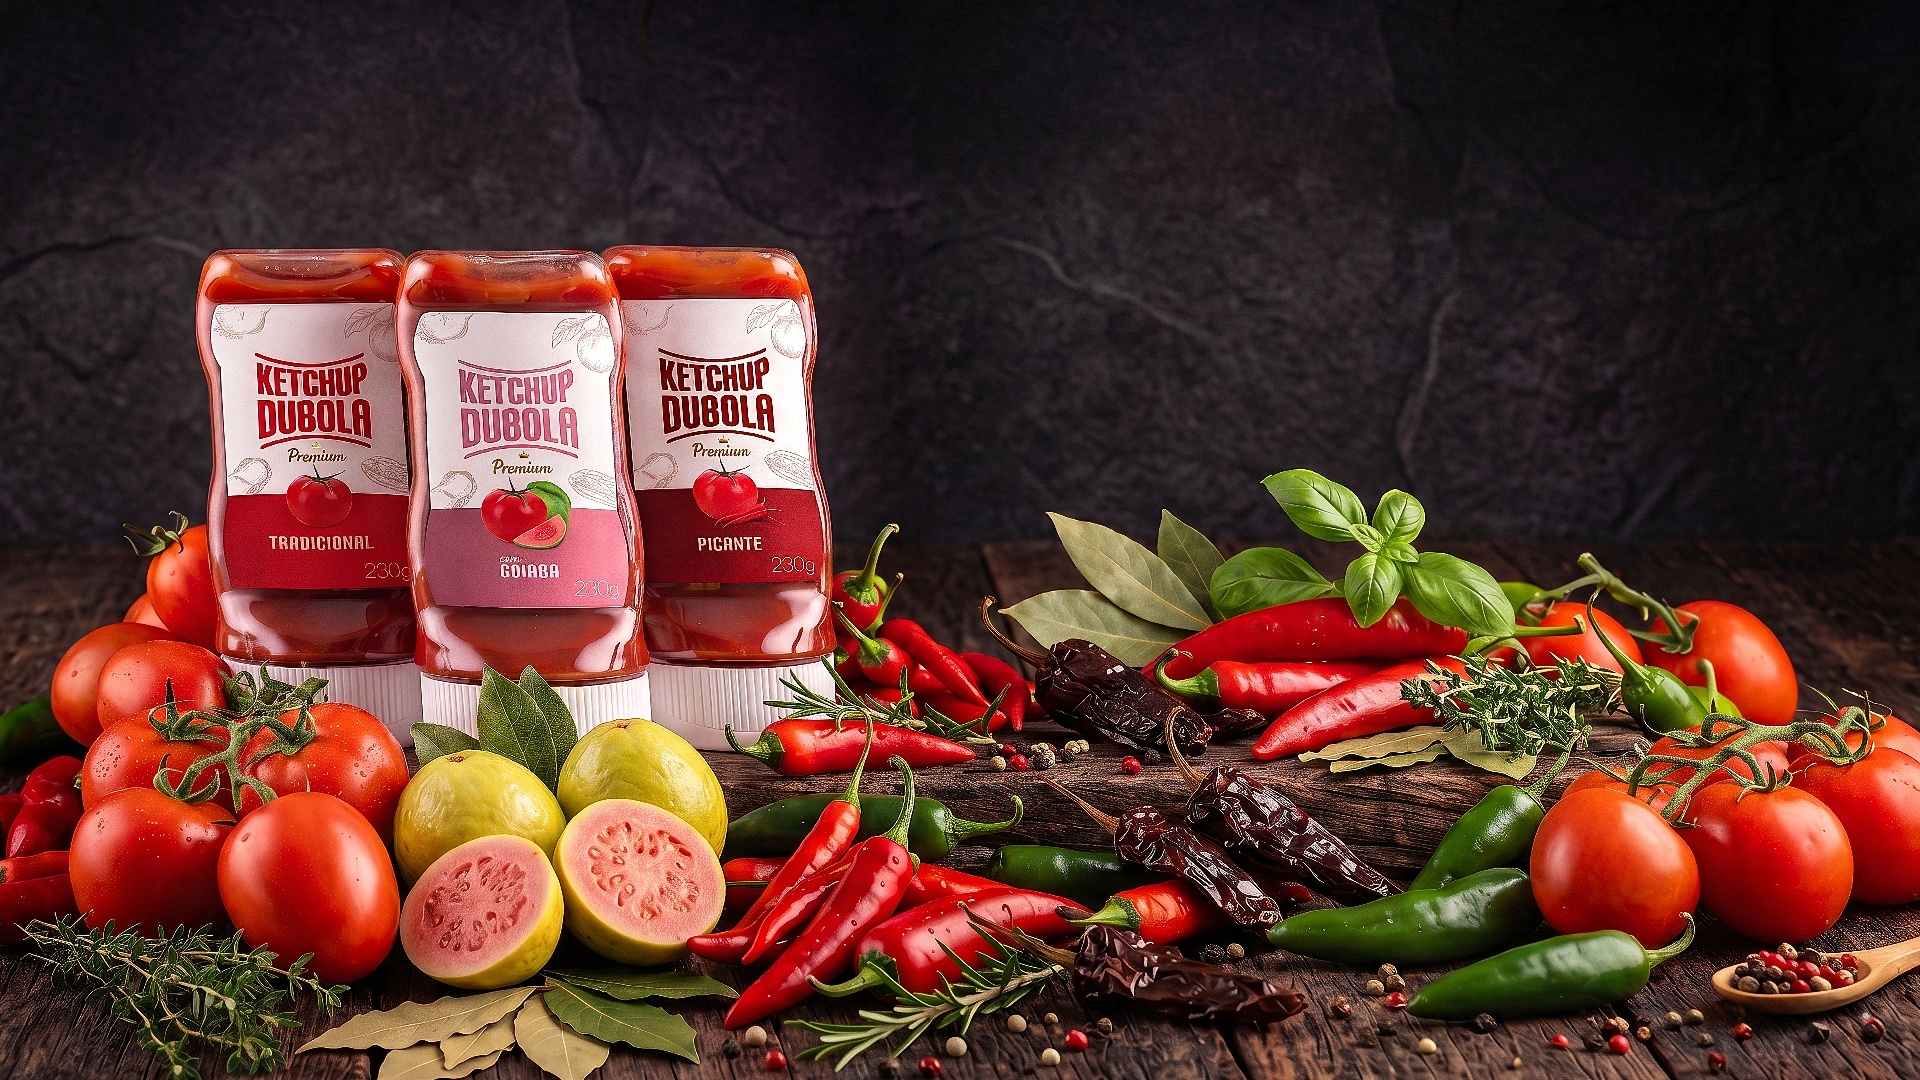
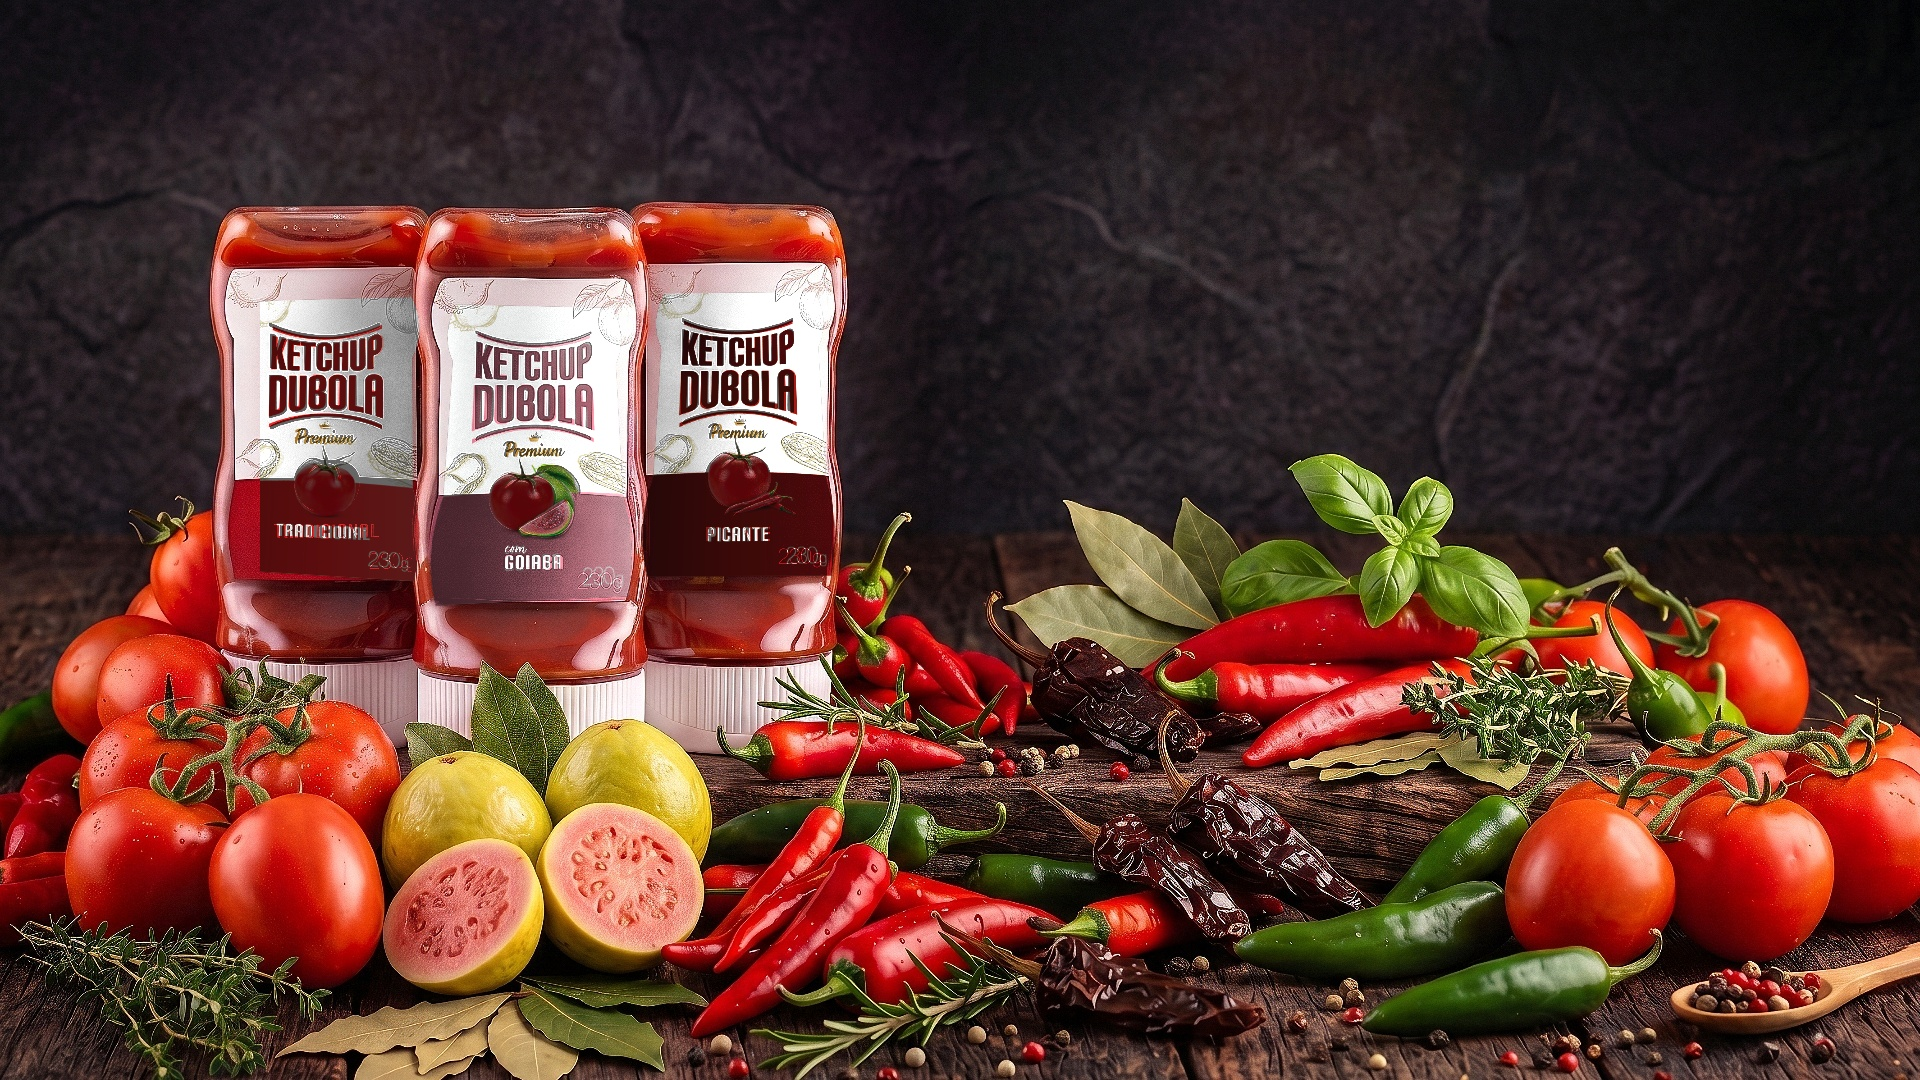
chore: apply high-res labels with 3D metallic highlights onto backdrop bottles

diff --git a/src/views/DubolaKetchupsView.jsx b/src/views/DubolaKetchupsView.jsx
@@ -266,25 +266,91 @@ export default function DubolaKetchupsView() {
     return () => video.removeEventListener('loadedmetadata', init);
   }, []);
 
-  /* GSAP – Manifesto tickers */
+  /* GSAP – Manifesto scroll animations */
   useEffect(() => {
     const ctx = gsap.context(() => {
-      gsap.fromTo('.ketchup-ticker-l', { xPercent: 5 }, { xPercent: -40, scrollTrigger: { trigger: manifestoRef.current, start: 'top bottom', end: 'bottom top', scrub: 1.2 } });
-      gsap.fromTo('.ketchup-ticker-r', { xPercent: -40 }, { xPercent: 5, scrollTrigger: { trigger: manifestoRef.current, start: 'top bottom', end: 'bottom top', scrub: 1.2 } });
-      gsap.fromTo('.float-slow', { y: 50 }, { y: -160, rotate: 40, scrollTrigger: { trigger: manifestoRef.current, start: 'top bottom', end: 'bottom top', scrub: 1.8 } });
-      gsap.fromTo('.float-fast', { y: 80 }, { y: -260, rotate: -80, scrollTrigger: { trigger: manifestoRef.current, start: 'top bottom', end: 'bottom top', scrub: 0.9 } });
+      // Header fade-in
+      gsap.fromTo('.manifesto-header', 
+        { y: 30, opacity: 0 },
+        { 
+          y: 0, 
+          opacity: 1, 
+          duration: 0.8,
+          scrollTrigger: {
+            trigger: manifestoRef.current,
+            start: 'top 80%',
+            toggleActions: 'play none none reverse'
+          }
+        }
+      );
+
+      // Cursive text fade and slight rotation
+      gsap.fromTo('.manifesto-cursive',
+        { scale: 0.8, rotate: -15, opacity: 0 },
+        {
+          scale: 1,
+          rotate: -3,
+          opacity: 1,
+          duration: 1,
+          delay: 0.3,
+          ease: 'back.out(1.7)',
+          scrollTrigger: {
+            trigger: manifestoRef.current,
+            start: 'top 80%',
+            toggleActions: 'play none none reverse'
+          }
+        }
+      );
+
+      // Header right side text fade-in
+      gsap.fromTo('.manifesto-header-right',
+        { x: 30, opacity: 0 },
+        {
+          x: 0,
+          opacity: 1,
+          duration: 0.8,
+          delay: 0.2,
+          scrollTrigger: {
+            trigger: manifestoRef.current,
+            start: 'top 80%',
+            toggleActions: 'play none none reverse'
+          }
+        }
+      );
+
+      // Manifesto paragraphs staggered fade-in
+      gsap.fromTo('.manifesto-p',
+        { y: 30, opacity: 0 },
+        {
+          y: 0,
+          opacity: 1,
+          stagger: 0.2,
+          duration: 0.8,
+          scrollTrigger: {
+            trigger: manifestoRef.current,
+            start: 'top 65%',
+            toggleActions: 'play none none reverse'
+          }
+        }
+      );
+
+      // Mobile bottles fade-in
+      gsap.fromTo('.manifesto-bottles',
+        { scale: 0.95, opacity: 0 },
+        {
+          scale: 1,
+          opacity: 1,
+          duration: 1,
+          scrollTrigger: {
+            trigger: manifestoRef.current,
+            start: 'top 65%',
+            toggleActions: 'play none none reverse'
+          }
+        }
+      );
     });
     return () => ctx.revert();
   }, []);
-
-  /* Mouse parallax on manifesto */
-  const handleMouseMove = (e) => {
-    if (!floatRef.current) return;
-    const rect = floatRef.current.getBoundingClientRect();
-    const x = ((e.clientX - rect.left) / rect.width - 0.5) * 50;
-    const y = ((e.clientY - rect.top) / rect.height - 0.5) * 50;
-    gsap.to('.mouse-px', { x, y, stagger: 0.04, ease: 'power2.out', duration: 0.8 });
-  };
 
   const handleSubmit = (e) => { e.preventDefault(); setFormSubmitted(true); };
 
@@ -367,76 +433,91 @@ export default function DubolaKetchupsView() {
       <section
         id="manifesto"
         ref={manifestoRef}
-        onMouseMove={handleMouseMove}
-        className="relative py-36 bg-zinc-950/70 overflow-hidden border-t border-white/[0.02] z-10"
+        className="relative w-full overflow-hidden bg-[#62070e] py-20 lg:py-32 px-6 flex items-center z-10 border-t border-white/[0.02]"
       >
-        {/* Parallax tickers */}
-        <div className="absolute top-8 left-0 w-full overflow-hidden opacity-[0.025] select-none pointer-events-none space-y-3">
-          <div className="ketchup-ticker-l font-display font-black text-[10vw] tracking-tighter uppercase whitespace-nowrap text-white">
-            TOMATE PELATI • 100% NATURAL • ZERO CORANTES • ARTESANAL DE AUTOR •
-          </div>
-          <div className="ketchup-ticker-r font-display font-black text-[10vw] tracking-tighter uppercase whitespace-nowrap text-white">
-            GOIABA VERMELHA • HABANERO FRESCO • CLEAN LABEL • TEXTURA ENCORPADA •
-          </div>
+        {/* Background image for desktop (lg) */}
+        <div className="absolute inset-0 hidden lg:block">
+          <img 
+            src="/ketchup/trio-ketchups-sem-acucar-splash.png" 
+            alt="" 
+            className="w-full h-full object-cover object-center pointer-events-none select-none"
+          />
+          {/* Subtle overlay to ensure text readability */}
+          <div className="absolute inset-0 bg-black/5" />
         </div>
 
-        {/* Floating elements */}
-        <div ref={floatRef} className="absolute inset-0 pointer-events-none z-0">
-          <div className="float-slow mouse-px absolute left-[8%] top-[25%] w-20 h-20 flex items-center justify-center bg-red-600/10 border border-red-500/20 rounded-full blur-[2px] opacity-50">
-            <span className="text-3xl">🍅</span>
-          </div>
-          <div className="float-fast mouse-px absolute right-[12%] top-[20%] w-14 h-14 flex items-center justify-center bg-green-600/10 border border-green-500/20 rounded-full blur-[1px] opacity-50">
-            <span className="text-2xl">🌿</span>
-          </div>
-          <div className="float-slow mouse-px absolute left-[18%] bottom-[25%] w-16 h-16 flex items-center justify-center bg-pink-600/10 border border-pink-500/20 rounded-full blur-[2px] opacity-40">
-            <span className="text-2xl">🍑</span>
-          </div>
-          <div className="float-fast mouse-px absolute right-[20%] bottom-[30%] w-12 h-12 flex items-center justify-center bg-orange-600/10 border border-orange-500/20 rounded-full opacity-40">
-            <span className="text-xl">🌶️</span>
-          </div>
-        </div>
+        {/* Background gradient for mobile */}
+        <div className="absolute inset-0 lg:hidden bg-gradient-to-b from-[#62070e] via-[#760811] to-[#b6192c] pointer-events-none select-none" />
 
-        <div className="max-w-6xl mx-auto px-6 grid grid-cols-1 lg:grid-cols-12 gap-16 items-center relative z-10">
-          <div className="lg:col-span-6 space-y-7">
-            <div className="inline-flex items-center gap-2 bg-red-600/10 border border-red-600/20 px-3.5 py-1 rounded-full text-red-400">
-              <Leaf size={11} />
-              <span className="text-[9px] font-bold tracking-widest uppercase">Nossa Filosofia</span>
-            </div>
-            <h2 className="font-display text-4xl sm:text-6xl font-black tracking-tight text-white uppercase leading-none">
-              NÃO É UM<br />
-              <span style={{ color: '#ff2a2a' }}>CONDIMENTO.</span><br />
-              É UM INGREDIENTE.
-            </h2>
-            <p className="text-sm sm:text-base text-zinc-400 leading-relaxed">
-              A maioria dos ketchups existe para cobrir o sabor do alimento. Os nossos existem para revelá-lo. Cada frasco começa com uma pergunta simples: <em className="text-zinc-200 not-italic font-medium">"O que esse alimento precisa para se tornar memorável?"</em>
-            </p>
-            <p className="text-sm sm:text-base text-zinc-500 leading-relaxed">
-              Selecionamos tomates nobres na janela exata de maturação. Colhemos goiabas vermelhas no pico do dulçor. Infundimos pimentas frescas — nunca em pó, nunca em extrato. O resultado é um condimento que cozinheiros profissionais usam e chefs debatem.
-            </p>
-            <div className="grid grid-cols-3 gap-6 pt-2">
-              {[['100%', 'Natural & Clean'], ['0%', 'Corantes Artificiais'], ['3', 'Sabores de Autor']].map(([num, label]) => (
-                <div key={label}>
-                  <span className="text-2xl font-black text-red-500">{num}</span>
-                  <p className="text-[10px] text-zinc-500 font-bold uppercase tracking-wider mt-0.5">{label}</p>
-                </div>
-              ))}
-            </div>
-          </div>
-
-          <div className="lg:col-span-6 flex justify-center">
-            <div className="relative w-full max-w-md aspect-[4/5] rounded-3xl overflow-hidden border border-white/5 shadow-2xl group">
-              <img
-                src="/ketchup/trioKetchupDubola vegetais.png"
-                alt="Ketchup Dubola e ingredientes frescos"
-                className="w-full h-full object-cover transition-transform duration-700 group-hover:scale-105"
-                onError={(e) => { e.target.src = '/ketchup/trioKetchupDubola.png'; }}
-              />
-              <div className="absolute inset-0 bg-gradient-to-t from-black via-black/20 to-transparent" />
-              <div className="absolute bottom-6 left-6 right-6">
-                <span className="text-[8px] font-bold text-red-400 uppercase tracking-widest">Ingredientes Frescos, Selecionados</span>
-                <h4 className="text-sm font-bold text-white uppercase mt-0.5">Do campo à sua mesa, sem atalhos.</h4>
+        <div className="relative z-10 max-w-7xl mx-auto w-full">
+          {/* Header of Section */}
+          <div className="flex flex-col lg:flex-row lg:items-center lg:justify-between mb-16 gap-6 manifesto-header opacity-0">
+            <div className="flex flex-col md:flex-row md:items-center gap-4 md:gap-8">
+              <h2 className="font-cheddar text-6xl sm:text-8xl tracking-tight leading-none text-white uppercase select-none">
+                O JEITO DUBOLA
+              </h2>
+              <div className="relative h-16 sm:h-24 flex items-center manifesto-cursive opacity-0">
+                <img 
+                  src="/como-deve-ser-branco.png" 
+                  alt="Como deve ser" 
+                  className="h-full w-auto object-contain transform -rotate-3 select-none"
+                />
               </div>
             </div>
+            
+            <div className="max-w-md lg:text-right manifesto-header-right opacity-0">
+              <p className="font-display text-lg sm:text-2xl leading-tight tracking-wider text-white uppercase">
+                A DUBOLA NASCEU PARA RESGATAR<br />
+                A AUTENTICIDADE DOS SABORES.
+              </p>
+            </div>
+          </div>
+
+          {/* Grid container */}
+          <div className="grid grid-cols-1 lg:grid-cols-12 gap-12 items-center">
+            {/* Left column: Manifesto text */}
+            <div className="lg:col-span-6 space-y-8 font-display uppercase tracking-wider text-xl md:text-2xl select-none">
+              {/* Paragraph 1 */}
+              <p className="text-zinc-300 font-normal manifesto-p opacity-0">
+                NÃO FAZEMOS MOLHOS APENAS PARA VENDER.
+              </p>
+
+              {/* Paragraph 2 */}
+              <p className="text-zinc-400 font-normal leading-snug max-w-xl manifesto-p opacity-0">
+                FAZEMOS <span className="text-white font-bold">PRODUTOS AUTÊNTICOS</span> QUE TEMOS <span className="text-white font-bold">ORGULHO</span> DE COLOCAR NA MESA DA NOSSA PRÓPRIA FAMÍLIA.
+              </p>
+
+              {/* Paragraph 3 */}
+              <div className="text-zinc-400 font-normal leading-snug space-y-2 manifesto-p opacity-0">
+                <p>ACREDITAMOS QUE <span className="text-white font-bold">SABOR</span> NÃO ACEITA <span className="text-white font-bold">ATALHOS</span>.</p>
+                <p>ACREDITAMOS QUE <span className="text-white font-bold">QUALIDADE</span> NÃO É UM DIFERENCIAL.</p>
+                <p className="pl-12 md:pl-28">É UMA OBRIGAÇÃO.</p>
+                <p>ACREDITAMOS QUE <span className="text-white font-bold">AUTENTICIDADE</span> VALE MAIS DO QUE SEGUIR TENDÊNCIAS.</p>
+              </div>
+
+              {/* Paragraph 4 */}
+              <p className="text-zinc-400 font-normal leading-snug manifesto-p opacity-0">
+                ACREDITAMOS QUE <span className="text-white font-bold">CONFIANÇA</span> É CONQUISTADA TODOS OS DIAS.
+              </p>
+
+              {/* Paragraph 5 */}
+              <div className="text-[#1f2d24] font-bold text-2xl md:text-3xl leading-tight pt-4 manifesto-p opacity-0">
+                <p>E ACREDITAMOS QUE UM BOM MOLHO</p>
+                <p>É AQUELE QUE VOCÊ TERÁ ORGULHO DE SERVIR.</p>
+              </div>
+            </div>
+
+            {/* Right column: Image visible ONLY on mobile/tablet */}
+            <div className="lg:col-span-6 lg:hidden w-full flex justify-center mt-6 manifesto-bottles opacity-0">
+              <img 
+                src="/ketchup/trio-ketchups-sem-acucar-splash.png" 
+                alt="Ketchups Dubola" 
+                className="w-full max-w-lg object-contain drop-shadow-2xl"
+              />
+            </div>
+            
+            {/* Empty column on desktop to let the background bottles shine */}
+            <div className="lg:col-span-6 hidden lg:block" />
           </div>
         </div>
       </section>

diff --git a/src/index.css b/src/index.css
@@ -37,7 +37,7 @@
     font-weight: bold;
   }
   .font-cheddar {
-    font-family: 'Cheddar Gothic Rough Regular', 'Cheddar Gothic Rough', sans-serif;
+    font-family: 'Cheddar Gothic Rough Regular', 'Cheddar Gothic Rough', 'Bebas Neue', sans-serif;
   }
   .font-carbon {
     font-family: 'Carbon', sans-serif;

diff --git a/scratch/apply_labels.py b/scratch/apply_labels.py
@@ -1,0 +1,88 @@
+import cv2
+import numpy as np
+
+# Load original high-quality clean background
+bg = cv2.imread('/Users/bruno/Documents/Dubola Alimentos/site/public/hero-final-clean.jpg')
+if bg is None:
+    print("Error loading background image")
+    exit(1)
+
+labels = {
+    'goiaba': {
+        'path': '/Users/bruno/Documents/Dubola Alimentos/site/public/ketchup-goiaba-label.png',
+        'roi_coords': (200, 650, 420, 650)
+    },
+    'picante': {
+        'path': '/Users/bruno/Documents/Dubola Alimentos/site/public/ketchup-picante-label.png',
+        'roi_coords': (200, 650, 600, 850)
+    },
+    'tradicional': {
+        'path': '/Users/bruno/Documents/Dubola Alimentos/site/public/ketchup-tradicional-label.png',
+        'roi_coords': (200, 650, 260, 480)
+    }
+}
+
+sift = cv2.SIFT_create()
+
+for name, info in labels.items():
+    # Load label with alpha channel
+    lbl_rgba = cv2.imread(info['path'], cv2.IMREAD_UNCHANGED)
+    if lbl_rgba is None:
+        print(f"Failed to load label: {name}")
+        continue
+    
+    # Extract ROI from background
+    y1, y2, x1, x2 = info['roi_coords']
+    roi = bg[y1:y2, x1:x2].copy()
+    roi_gray = cv2.cvtColor(roi, cv2.COLOR_BGR2GRAY)
+    
+    # SIFT Feature Matching
+    lbl_gray = cv2.cvtColor(lbl_rgba[:, :, :3], cv2.COLOR_BGR2GRAY)
+    kp1, des1 = sift.detectAndCompute(lbl_gray, None)
+    kp2, des2 = sift.detectAndCompute(roi_gray, None)
+    
+    bf = cv2.BFMatcher()
+    matches = bf.knnMatch(des1, des2, k=2)
+    good = []
+    for m, n in matches:
+        if m.distance < 0.75 * n.distance:
+            good.append(m)
+            
+    src_pts = np.float32([kp1[m.queryIdx].pt for m in good]).reshape(-1, 1, 2)
+    dst_pts = np.float32([kp2[m.trainIdx].pt for m in good]).reshape(-1, 1, 2)
+    
+    H, mask = cv2.findHomography(src_pts, dst_pts, cv2.RANSAC, 5.0)
+    
+    # Warp label image and alpha channel to fit the ROI
+    h_roi, w_roi, _ = roi.shape
+    warped_rgb = cv2.warpPerspective(lbl_rgba[:, :, :3], H, (w_roi, h_roi))
+    warped_alpha = cv2.warpPerspective(lbl_rgba[:, :, 3], H, (w_roi, h_roi))
+    
+    # Normalize alpha to 0-1
+    alpha_mask = warped_alpha.astype(float) / 255.0
+    alpha_mask = np.expand_dims(alpha_mask, axis=2)
+    
+    # Calculate shading from the original ROI
+    # We use the grayscale channel of the original bottle label to extract highlights and shadows
+    shading_base = roi_gray.astype(float)
+    # The average white level of the original label is around 220
+    shading = shading_base / 220.0
+    # Clip shading to prevent extreme highlights/shadows
+    shading = np.clip(shading, 0.4, 1.25)
+    shading_3ch = np.stack([shading, shading, shading], axis=2)
+    
+    # Apply shading to the new label
+    shaded_label = warped_rgb.astype(float) * shading_3ch
+    shaded_label = np.clip(shaded_label, 0, 255)
+    
+    # Blend the shaded new label onto the background ROI using the alpha mask
+    blended_roi = (shaded_label * alpha_mask) + (roi.astype(float) * (1.0 - alpha_mask))
+    blended_roi = np.clip(blended_roi, 0, 255).astype(np.uint8)
+    
+    # Write back to background
+    bg[y1:y2, x1:x2] = blended_roi
+    print(f"Applied high-res shaded label to {name} bottle!")
+
+# Save the final high-quality background
+cv2.imwrite('/Users/bruno/Documents/Dubola Alimentos/site/public/hero-final-clean.jpg', bg, [int(cv2.IMWRITE_JPEG_QUALITY), 95])
+print("Final composite saved to public/hero-final-clean.jpg!")